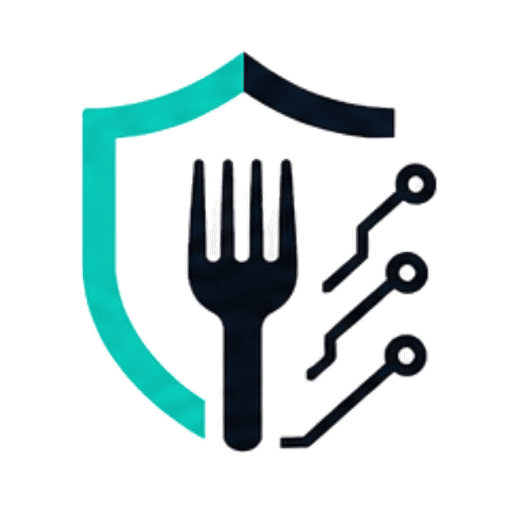
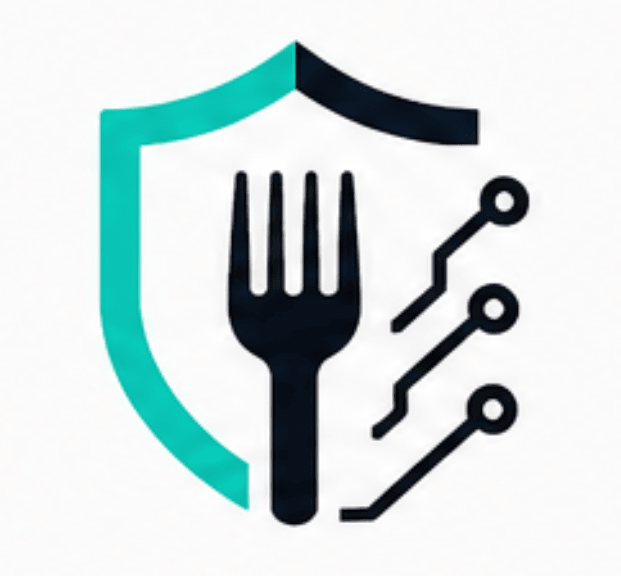
Revert "arreglar icono del PWA: no era cuadrado ni transparente"
This reverts commit eef0290b62bd1a4fb0bf4adae85ee50eeae7f492.

diff --git a/public/js/util.js b/public/js/util.js
@@ -91,9 +91,7 @@ async function conBotonCargando(boton, textoCargando, accion) {
   }
 
   agregarLink('manifest', '/manifest.json');
-  // apple-touch-icon con fondo solido (no transparente) -- iOS viejo pinta
-  // negro detras de los pixeles transparentes, se ve mal
-  agregarLink('apple-touch-icon', '/img/icon-fooddata-maskable.png');
+  agregarLink('apple-touch-icon', '/img/icon-fooddata.png');
   agregarMeta('theme-color', '#16c2a3');
   agregarMeta('apple-mobile-web-app-capable', 'yes');
   agregarMeta('apple-mobile-web-app-title', 'FoodData');

diff --git a/CLAUDE.md b/CLAUDE.md
@@ -144,11 +144,7 @@ Cada botón aparece u oculta según `empresa.modulosActivos`:
 - **Logo del establecimiento (`.establecimiento-logo`):** el logo real (`.establecimiento-logo-img`) se pinta sin marco (sin fondo blanco/borde/padding alrededor) para que se vea "incrustado" en la página tal cual es el archivo — un logo redondo con transparencia se ve redondo, no dentro de un cuadrito blanco. El marco blanco con borde (`.establecimiento-logo-ph`) se quedó **solo** en el placeholder "Logo" (cuando la empresa todavía no subió uno), porque ahí sí hace falta un contenedor visible.
 - **Encabezado institucional del formato:** `<details>` colapsable — abierto la 1ra vez, cerrado después (recordado por formato en `localStorage`). Indicador visual ▼/▲ que rota.
 
-**Logos en `public/img/`:** `logo-fooddata.png` (lockup con lema — login), `logo-solo.fooddata.png` (solo wordmark — cabeceras). Logos de empresas (subidos) en `public/img/logos/`. Los PNG de marca están comprimidos con paleta de colores (2026-09-22, `sharp` usado una sola vez, no quedó como dependencia) — de ~726KB en total a ~176KB, sin diferencia visible. Si se reemplaza alguno a mano después, conviene comprimirlo antes de subirlo (cualquier optimizador de PNG con paleta sirve).
-
-**Íconos del PWA (`icon-fooddata*.png`):** tres archivos, no uno solo — se detectó (2026-09-23) que el ícono original no era cuadrado (621×576) y no tenía fondo transparente, lo que hacía que el recorte automático de cada plataforma al "instalar"/"agregar a inicio" se viera distinto en celular que en PC. Ahora:
-- `icon-fooddata-192.png` / `icon-fooddata.png` (512) — cuadrados, fondo transparente, para `manifest.json` (`purpose: "any"`) y el favicon (`<link rel="icon">` en cada página).
-- `icon-fooddata-maskable.png` (512) — el mismo escudo pero achicado con margen sobre fondo blanco sólido, para que el recorte circular/redondeado de Android (`purpose: "maskable"` en `manifest.json`) y el apple-touch-icon de iOS (inyectado por `util.js`, fondo sólido a propósito porque iOS viejo pinta negro detrás de los píxeles transparentes) no corten el diseño.
+**Logos en `public/img/`:** `logo-fooddata.png` (lockup con lema — login), `logo-solo.fooddata.png` (solo wordmark — cabeceras), `icon-fooddata.png` (ícono PWA). Logos de empresas (subidos) en `public/img/logos/`. Los 3 PNG de marca están comprimidos con paleta de colores (2026-09-22, `sharp` usado una sola vez, no quedó como dependencia) — de ~726KB en total a ~176KB, sin diferencia visible. Si se reemplaza alguno a mano después, conviene comprimirlo antes de subirlo (cualquier optimizador de PNG con paleta sirve).
 
 ## Accesibilidad (WCAG AA)
 - **Skip-link** "Saltar al contenido" — inyectado en todas las páginas por `util.js`, oculto excepto en focus de teclado.
